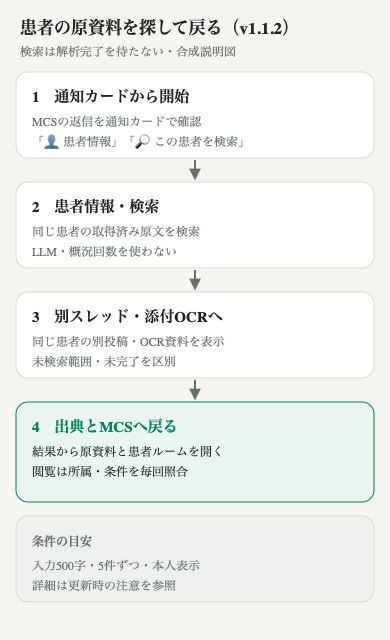
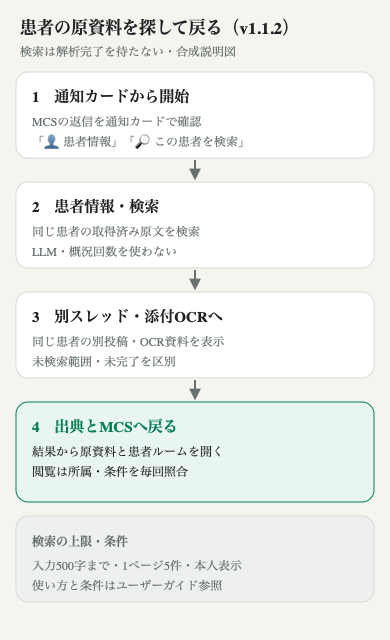
docs: patient-findの検索条件文を上限表記とユーザーガイド参照へ修正

Changed region(s): [[0.0615, 0.8125, 0.6154, 0.9375], [0.0923, 0.8125, 0.1538, 0.875]]

diff --git a/docs/releases/v1.1.2/patient-find-v112.html b/docs/releases/v1.1.2/patient-find-v112.html
@@ -27,8 +27,8 @@
 <text x="32" y="456" font-size="12" fill="#202124">結果から原資料と患者ルームを開く</text>
 <text x="32" y="476" font-size="12" fill="#202124">閲覧は所属・条件を毎回照合</text>
 <rect x="16" y="516" width="358" height="86" rx="12" fill="#edf0ee" stroke="#d5dcd7"/>
-<text x="32" y="546" font-size="12" font-weight="700" fill="#66716f">条件の目安</text>
-<text x="32" y="570" font-size="12" fill="#66716f">入力500字・5件ずつ・本人表示</text>
-<text x="32" y="590" font-size="12" fill="#66716f">詳細は更新時の注意を参照</text>
+<text x="32" y="546" font-size="12" font-weight="700" fill="#66716f">検索の上限・条件</text>
+<text x="32" y="570" font-size="12" fill="#66716f">入力500字まで・1ページ5件・本人表示</text>
+<text x="32" y="590" font-size="12" fill="#66716f">使い方と条件はユーザーガイド参照</text>
 </g></svg>
 </body></html>
